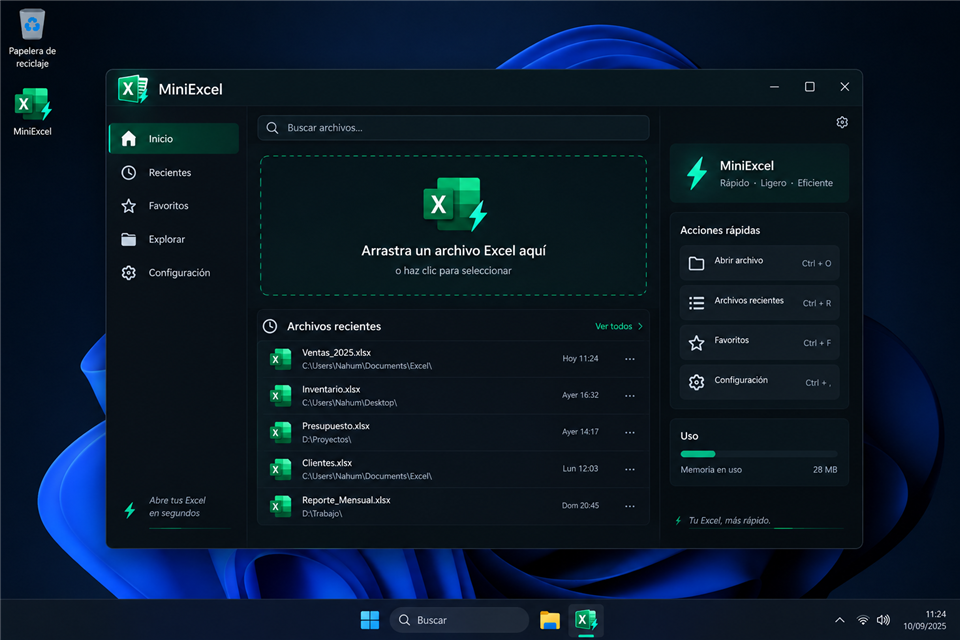
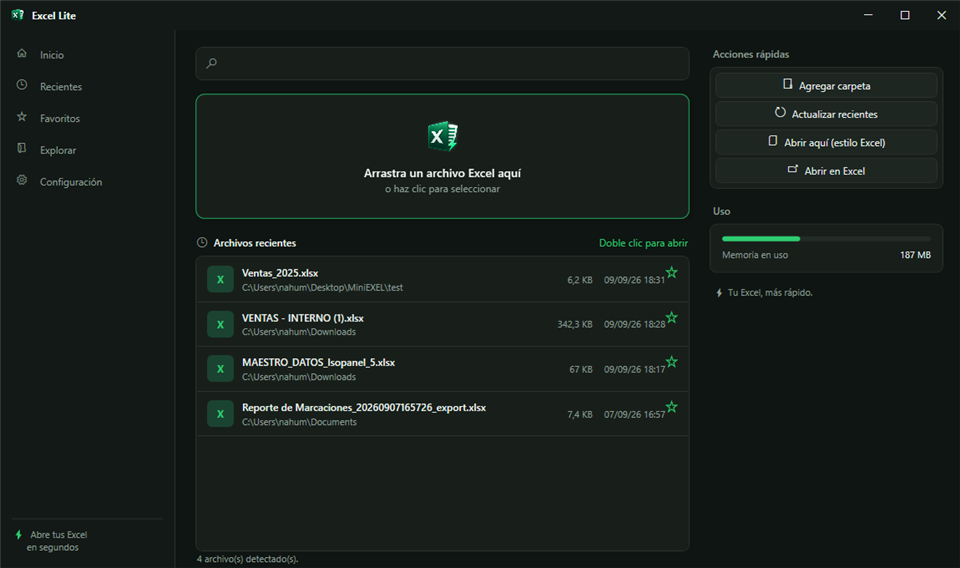
Replace outdated MiniEXEL-branded preview images with a real Excel Lite screenshot

diff --git a/README.md b/README.md
@@ -3,10 +3,6 @@
 Visor y editor de Excel nativo para Windows, liviano y rápido: detecta tus archivos recientes, los abre con vista estilo Excel (colores, fórmulas, imágenes), y trae un asistente de IA integrado para consultar y modificar tus hojas.
 
 <p align="center">
-  <img src="https://cdn.jsdelivr.net/gh/NanaBru/ExcelLite-AI@master/assets/preview.png" alt="Excel Lite - logo e iconografía" width="480"/>
-</p>
-
-<p align="center">
   <img src="https://cdn.jsdelivr.net/gh/NanaBru/ExcelLite-AI@master/assets/app-screenshot.png" alt="Excel Lite - pantalla principal" width="480"/>
 </p>
 
